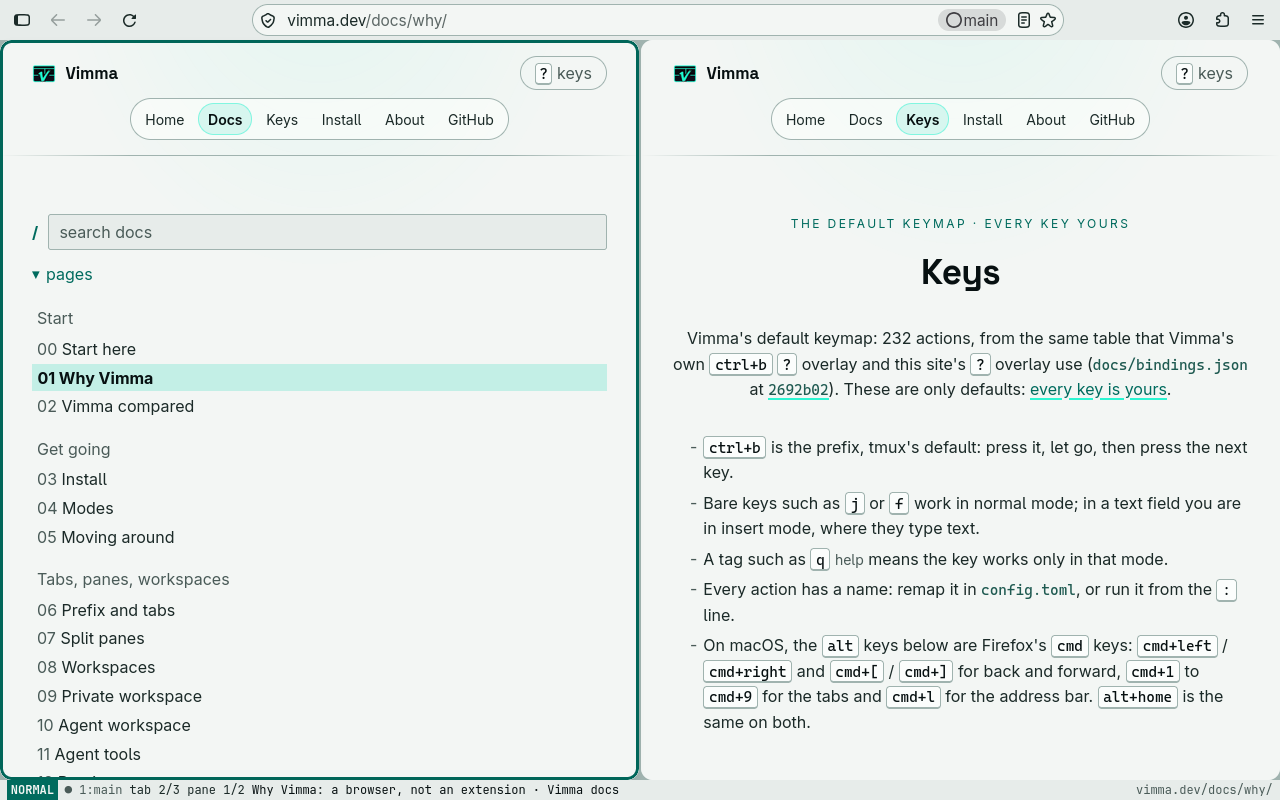
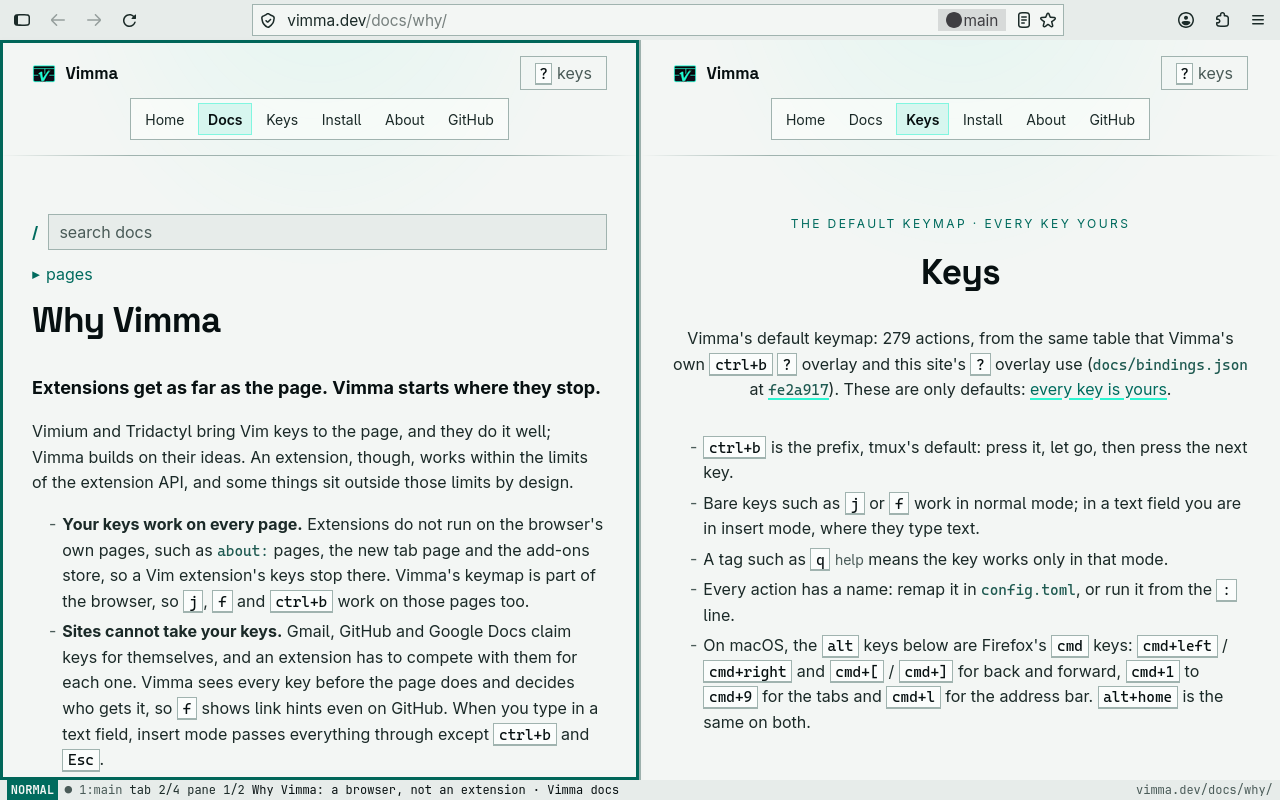
docs(package): retake the flathub screenshots on 0.1.18, with scenarios to retake them
The metainfo's five screenshots showed Vimma 0.1.14: the chrome's rounded corners, which 0.1.16
squared, and vimma.dev's earlier style, with its install button at 0.1.14. They are taken again
from an artifact build of main after 0.1.18 (Firefox 160), in the built-in theme, on vimma.dev's
public pages.

The scenarios that take them now live in tools/package/screenshots/, so a retake is one e2e run
(docs/assets/screenshots/README.md), and a unit test holds them to the metainfo's list. It
validates them as the e2e runner does, since CI's e2e jobs never load them, and allows only
open, keys, wait-for-state, sleep and screenshot steps, opening only https://vimma.dev/ pages in
the harness's fresh profile with no pref changes, so no personal data can reach Flathub.

The URLs keep #796's scheme: each release's metainfo links the images at its own tag, which never
moves, so no re-pin is needed after this squash merge. These images show from the next release.

Part of #465

Claude-Session: https://claude.ai/code/session_01WvGrgfwhaAGfyvFEKjp27W

diff --git a/docs/assets/screenshots/README.md b/docs/assets/screenshots/README.md
@@ -1,8 +1,8 @@
 # Screenshots
 
-Screenshots of Vimma 0.1.14 for the Flatpak's AppStream metainfo, which Flathub shows on the
-app's page. Each was taken from an artifact build under Xvfb at 1280×800, in the built-in
-theme, on [vimma.dev](https://vimma.dev):
+Screenshots of Vimma 0.1.18 (Firefox 160) for the Flatpak's AppStream metainfo, which Flathub
+shows on the app's page. Each was taken from an artifact build under Xvfb at 1280×800, in the
+built-in theme, on [vimma.dev](https://vimma.dev):
 
 | File        | Shows                                                 |
 | ----------- | ----------------------------------------------------- |
@@ -15,3 +15,14 @@ theme, on [vimma.dev](https://vimma.dev):
 `tools/package/flatpak.mjs` links them as raw GitHub URLs at each release's tag (`vX.Y.Z`), so
 the links of a release never change under Flathub. To replace one, commit the new file under the
 same name; the metainfo of the next release links it.
+
+To take them again on a new build, run the e2e scenarios in `tools/package/screenshots/`, which
+open only vimma.dev's public pages in a fresh profile, so no personal data shows:
+
+```sh
+npm run e2e -- --xvfb --scenarios tools/package/screenshots \
+  --baselines docs/assets/screenshots --out "$(mktemp -d)" --update-baselines
+```
+
+Without `--update-baselines`, the same command compares a build with the committed screenshots.
+Look at each image before committing it: the pages on vimma.dev change with the site.
